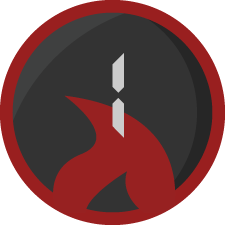
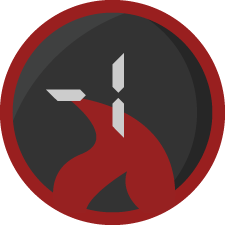
update damage counters, added transparent board image on index

Changed region(s): [[0.1867, 0.3733, 0.4044, 0.4667]]

diff --git a/_includes/footer.html b/_includes/footer.html
@@ -1,6 +1,4 @@
 <footer class="container-fluid text-center">
-  
   <a href="#top" title="To Top"><i class="fas fa-chevron-up"></i></a>
-  <p>&copy; <img class="logo-rgb" src="{{ site.baseurl }}/assets/images/rgb-icon.svg" onerror="this.onerror=null;this.src='{{ site.baseurl }}/assets/images/rgb-icon.png';"> <a tabindex="-1" title="rgbstudios.org" href="http://rgbstudios.org" target="_blank">RGB Studios</a> 2018</p>
+  <img src="{{ site.baseurl }}/assets/images/board/board-art-transparent-bottom.png" style="width: 100%;">
 </footer>
-

diff --git a/index.html b/index.html
@@ -47,7 +47,7 @@ active: Home
   </form>  
   </div>
 </div> 
-
+  <img src="{{ site.baseurl }}/assets/images/board/board-art-transparent-bottom.png" style="width: 100%;">
 <!--
 <h2 class="text-center"><span class="glyphicon glyphicon-star"></span> REVIEWS</h2>
 <div id="reviewCarousel" class="carousel slide text-center" data-ride="carousel">
